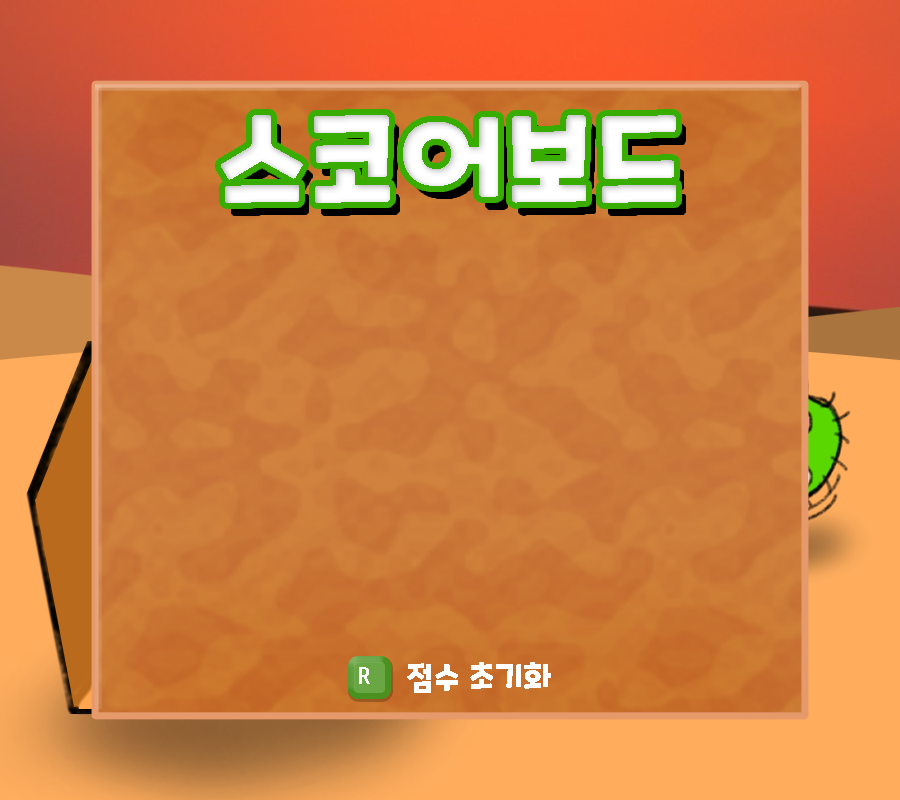
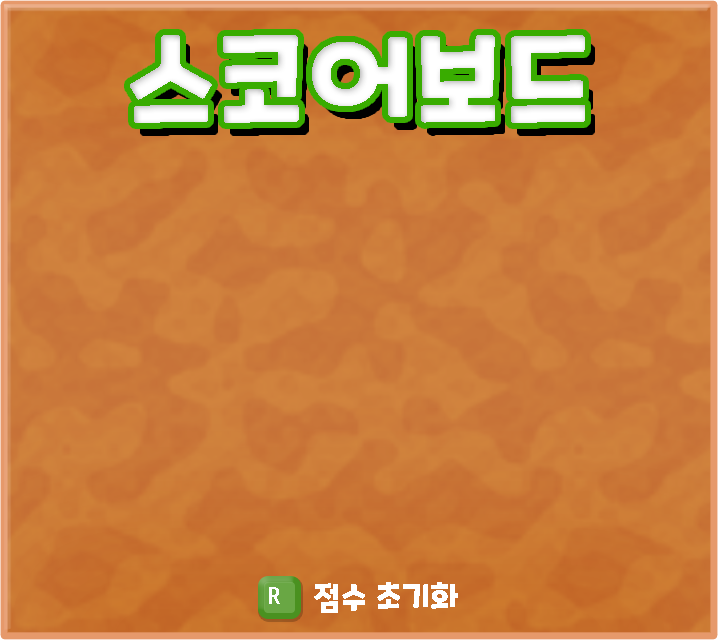
충돌버그 수정
데헷

diff --git a/Cactus Family/class_Stone.py b/Cactus Family/class_Stone.py
@@ -114,33 +114,38 @@ class Stone:
         return True
 
     def handle_Stone(self, event):
-        if event.type == SDL_KEYDOWN and self.x_dir == ST_X_NONE and self.y_dir == ST_Y_NONE:
-            if event.key in (SDLK_RIGHT, SDLK_d) and self.rect[2] < MAP_WIDTH - 50 \
-                    and self.forward_access and self.is_block_around_stone(ST_X_FORWARD):
-                self.x_dir = ST_X_FORWARD
-                self.old_x = self.x + 100
-                self.move_count += 1
-                self.move_sound.play()
-            elif event.key in (SDLK_LEFT, SDLK_a) and 50 < self.rect[0] \
-                    and self.bakward_access and self.is_block_around_stone(ST_X_BAKWARD):
-                self.x_dir = ST_X_BAKWARD
-                self.old_x = self.x - 100
-                self.move_count += 1
-                self.move_sound.play()
-            elif event.key in (SDLK_UP, SDLK_w) and self.rect[1] < MAP_WIDTH - 150 \
-                    and self.up_access and self.is_block_around_stone(ST_Y_UP):
-                self.y_dir = ST_Y_UP
-                self.old_y = self.y + 100
-                self.move_count += 1
-                self.move_sound.play()
-            elif event.key in (SDLK_DOWN, SDLK_s) and 50 < self.rect[3] \
-                    and self.down_access and self.is_block_around_stone(ST_Y_DOWN):
-                self.y_dir = ST_Y_DOWN
-                self.old_y = self.y - 100
-                self.move_count += 1
-                self.move_sound.play()
-            elif event.key in (SDLK_RIGHT, SDLK_d, SDLK_LEFT, SDLK_a, SDLK_UP, SDLK_w, SDLK_DOWN, SDLK_s):
-                self.blocking_sound.play()
+        stop = 0
+        for cac in get_cactus():
+            if not (cac.x_dir == ST_X_NONE and cac.y_dir == ST_Y_NONE):
+                stop += 1
+        if stop == 0:
+            if event.type == SDL_KEYDOWN and self.x_dir == ST_X_NONE and self.y_dir == ST_Y_NONE:
+                if event.key in (SDLK_RIGHT, SDLK_d) and self.rect[2] < MAP_WIDTH - 50 \
+                        and self.forward_access and self.is_block_around_stone(ST_X_FORWARD):
+                    self.x_dir = ST_X_FORWARD
+                    self.old_x = self.x + 100
+                    self.move_count += 1
+                    self.move_sound.play()
+                elif event.key in (SDLK_LEFT, SDLK_a) and 50 < self.rect[0] \
+                        and self.bakward_access and self.is_block_around_stone(ST_X_BAKWARD):
+                    self.x_dir = ST_X_BAKWARD
+                    self.old_x = self.x - 100
+                    self.move_count += 1
+                    self.move_sound.play()
+                elif event.key in (SDLK_UP, SDLK_w) and self.rect[1] < MAP_WIDTH - 150 \
+                        and self.up_access and self.is_block_around_stone(ST_Y_UP):
+                    self.y_dir = ST_Y_UP
+                    self.old_y = self.y + 100
+                    self.move_count += 1
+                    self.move_sound.play()
+                elif event.key in (SDLK_DOWN, SDLK_s) and 50 < self.rect[3] \
+                        and self.down_access and self.is_block_around_stone(ST_Y_DOWN):
+                    self.y_dir = ST_Y_DOWN
+                    self.old_y = self.y - 100
+                    self.move_count += 1
+                    self.move_sound.play()
+                elif event.key in (SDLK_RIGHT, SDLK_d, SDLK_LEFT, SDLK_a, SDLK_UP, SDLK_w, SDLK_DOWN, SDLK_s):
+                    self.blocking_sound.play()
 
     def update(self):
         self.move()

diff --git a/Cactus Family/class_Cactus.py b/Cactus Family/class_Cactus.py
@@ -26,16 +26,16 @@ class Cactus:
     def is_block_around(self, move_type):
         for block in class_Stage.get_block():
             if move_type == ST_X_FORWARD and self.rect[2] == block.rect[0] and self.y == block.y:
-                print('넌 앞으로 못가')
+                # print('넌 앞으로 못가')
                 return False
             elif move_type == ST_X_BAKWARD and self.rect[0] == block.rect[2] and self.y == block.y:
-                print('넌 뒤로 못가')
+                # print('넌 뒤로 못가')
                 return False
             elif move_type == ST_Y_UP and self.rect[1] == block.rect[3] and self.x == block.x:
-                print('넌 위로 못가')
+                # print('넌 위로 못가')
                 return False
             elif move_type == ST_Y_DOWN and self.rect[3] == block.rect[1] and self.x == block.x:
-                print('넌 밑으로 못가')
+                # print('넌 밑으로 못가')
                 return False
         return True
 

diff --git a/Cactus Family/Cactus_Family.py b/Cactus Family/Cactus_Family.py
@@ -94,10 +94,11 @@ def update_block():
 
 def update():
     game_stage.check_stage_clear()
-    player.update()
     cactus_group.update()
-    update_block()
     update_cactus()
+    player.update()
+    update_block()
+
     handle_events()
     update_canvas()
 

diff --git a/Cactus Family/score_state.py b/Cactus Family/score_state.py
@@ -47,7 +47,7 @@ def update():
 
 
 def draw():
-    clear_canvas()
+    # clear_canvas()
     image.draw(450, 400)
     for i in range(4):
         if score_data[i] == NO_SCORE:

diff --git a/Cactus Family/title_state.py b/Cactus Family/title_state.py
@@ -71,6 +71,7 @@ def handle_events():
         elif event.type == SDL_QUIT:
             game_framework.quit()
 
+
 def draw():
     clear_canvas()
     image.draw(450, 400)
